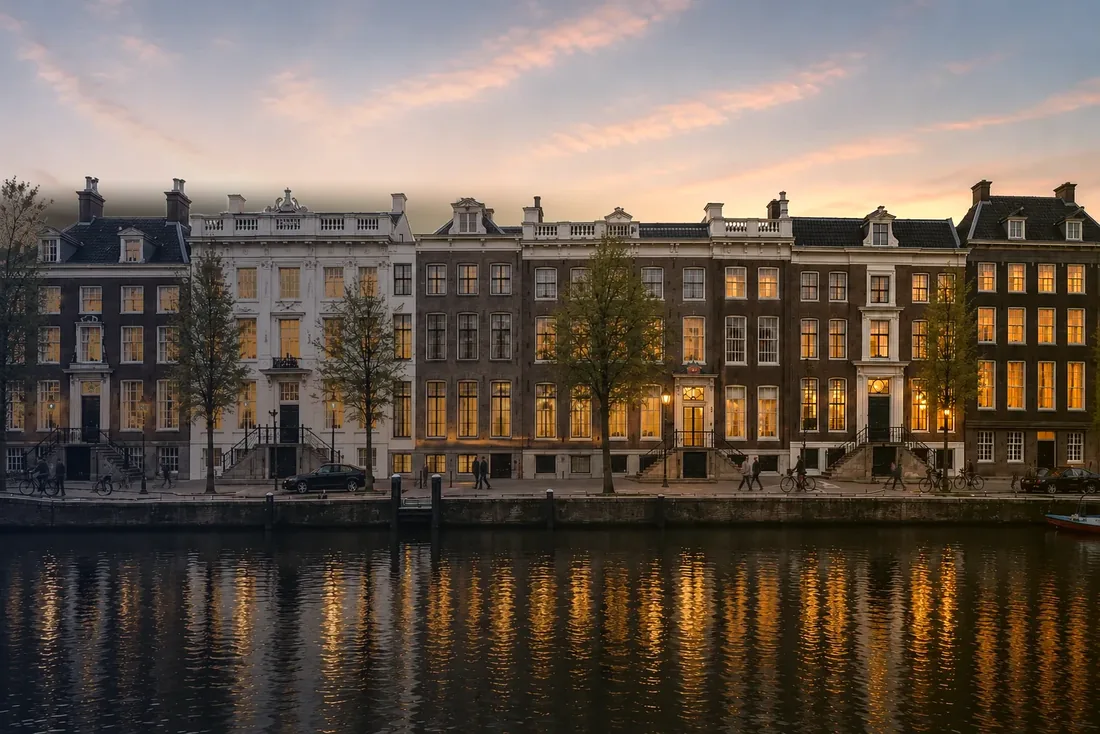
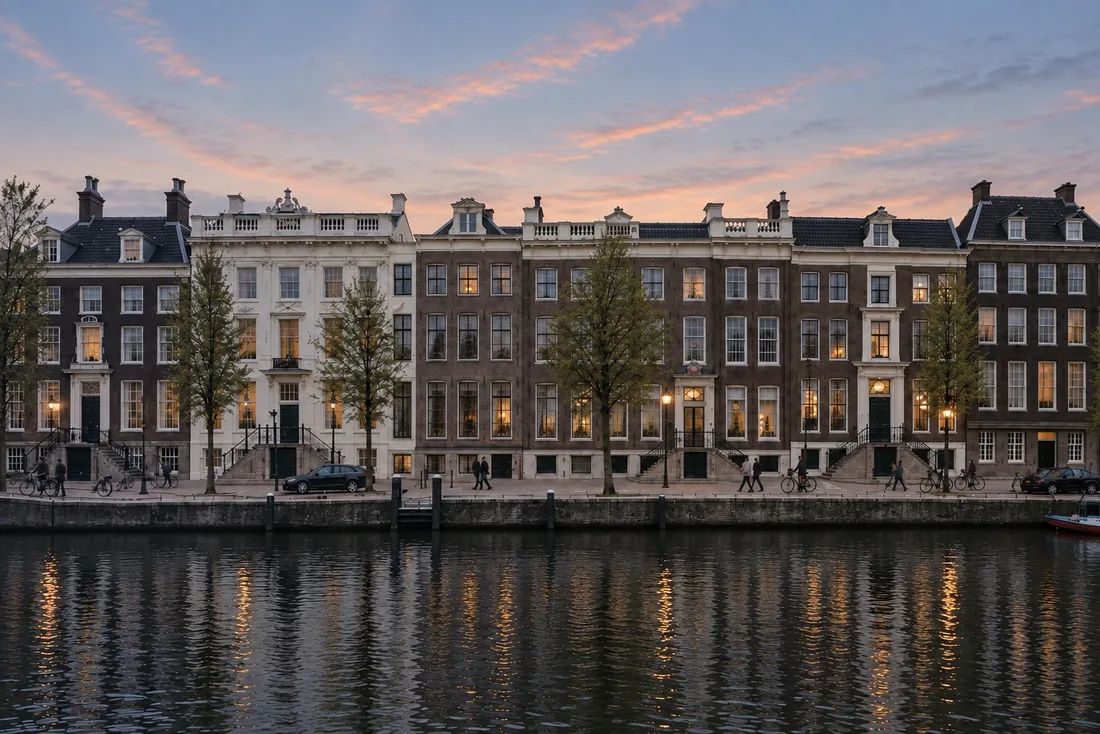
Repositioning image: replace the heavily graded photograph with the clean version (Home and Investment Focus, EN and JA)
Claude-Session: https://claude.ai/code/session_01V6ZX8JZxabEvsyygzDaCkB

diff --git a/ja/investment-focus.html b/ja/investment-focus.html
@@ -41,7 +41,7 @@
      when a strategy is opened (they stay loading="lazy"). -->
 <link rel="preload" as="image" imagesrcset="../assets/imagery/focus-hero-blur.avif" type="image/avif">
 <link rel="preload" as="image" href="../assets/imagery/focus-income-balanced.webp" media="(min-width: 761px)" fetchpriority="high">
-<link rel="preload" as="image" href="../assets/imagery/focus-repositioning-panorama-900.webp" imagesrcset="../assets/imagery/focus-repositioning-panorama-900.webp 900w, ../assets/imagery/focus-repositioning-panorama.webp 1535w" imagesizes="45vw" media="(min-width: 761px)" fetchpriority="high">
+<link rel="preload" as="image" href="../assets/imagery/focus-repositioning-panorama-900.webp?v=2" imagesrcset="../assets/imagery/focus-repositioning-panorama-900.webp?v=2 900w, ../assets/imagery/focus-repositioning-panorama.webp?v=2 1535w" imagesizes="45vw" media="(min-width: 761px)" fetchpriority="high">
 <style>
   /* =====================================================================
      投資方針 — the Japanese composition of the approved English Investment
@@ -419,7 +419,7 @@
           <div class="fx-panel fx-panel--rep">
             <button class="fx-shut" type="button" data-focus="1" aria-label="再生型を見る"></button>
             <span class="fx-photo" aria-hidden="true">
-              <img src="../assets/imagery/focus-repositioning-panorama-900.webp" srcset="../assets/imagery/focus-repositioning-panorama-900.webp 900w, ../assets/imagery/focus-repositioning-panorama.webp 1535w" sizes="(max-width: 760px) 100vw, 45vw" alt="" width="1535" height="1024" loading="lazy" decoding="async">
+              <img src="../assets/imagery/focus-repositioning-panorama-900.webp?v=2" srcset="../assets/imagery/focus-repositioning-panorama-900.webp?v=2 900w, ../assets/imagery/focus-repositioning-panorama.webp?v=2 1535w" sizes="(max-width: 760px) 100vw, 45vw" alt="" width="1535" height="1024" loading="lazy" decoding="async">
             </span>
             <span class="fx-scrim" aria-hidden="true"></span>
             <span class="fx-edge" aria-hidden="true"></span>
@@ -460,7 +460,7 @@
           </div>
           <div class="fx-det-grid">
             <figure class="fx-det-fig">
-              <div class="fx-det-img"><img src="../assets/imagery/focus-repositioning-panorama.webp" srcset="../assets/imagery/focus-repositioning-panorama-900.webp 900w, ../assets/imagery/focus-repositioning-panorama.webp 1535w" sizes="(max-width: 760px) 100vw, 40vw" alt="夕暮れの光に包まれた、アムステルダムの運河沿いの建物" width="1535" height="1024" loading="lazy" decoding="async"></div>
+              <div class="fx-det-img"><img src="../assets/imagery/focus-repositioning-panorama.webp?v=2" srcset="../assets/imagery/focus-repositioning-panorama-900.webp?v=2 900w, ../assets/imagery/focus-repositioning-panorama.webp?v=2 1535w" sizes="(max-width: 760px) 100vw, 40vw" alt="夕暮れの光に包まれた、アムステルダムの運河沿いの建物" width="1535" height="1024" loading="lazy" decoding="async"></div>
               <figcaption class="fx-illus">イメージです。<wbr><span lang="en">Reiwa Capital</span>の物件や取引を<wbr>示すものではありません。</figcaption>
             </figure>
             <div class="fx-det-main">

diff --git a/investment-focus.html b/investment-focus.html
@@ -40,7 +40,7 @@
      when a strategy is opened (they stay loading="lazy"). -->
 <link rel="preload" as="image" imagesrcset="assets/imagery/focus-hero-blur.avif" type="image/avif">
 <link rel="preload" as="image" href="assets/imagery/focus-income-balanced.webp" media="(min-width: 761px)" fetchpriority="high">
-<link rel="preload" as="image" href="assets/imagery/focus-repositioning-panorama-900.webp" imagesrcset="assets/imagery/focus-repositioning-panorama-900.webp 900w, assets/imagery/focus-repositioning-panorama.webp 1535w" imagesizes="45vw" media="(min-width: 761px)" fetchpriority="high">
+<link rel="preload" as="image" href="assets/imagery/focus-repositioning-panorama-900.webp?v=2" imagesrcset="assets/imagery/focus-repositioning-panorama-900.webp?v=2 900w, assets/imagery/focus-repositioning-panorama.webp?v=2 1535w" imagesizes="45vw" media="(min-width: 761px)" fetchpriority="high">
 <style>
   /* =====================================================================
      INVESTMENT FOCUS — hero, then three signature visuals with the
@@ -405,7 +405,7 @@
           <div class="fx-panel fx-panel--rep">
             <button class="fx-shut" type="button" data-focus="1" aria-label="Explore Repositioning"></button>
             <span class="fx-photo" aria-hidden="true">
-              <img src="assets/imagery/focus-repositioning-panorama-900.webp" srcset="assets/imagery/focus-repositioning-panorama-900.webp 900w, assets/imagery/focus-repositioning-panorama.webp 1535w" sizes="(max-width: 760px) 100vw, 45vw" alt="" width="1535" height="1024" loading="lazy" decoding="async">
+              <img src="assets/imagery/focus-repositioning-panorama-900.webp?v=2" srcset="assets/imagery/focus-repositioning-panorama-900.webp?v=2 900w, assets/imagery/focus-repositioning-panorama.webp?v=2 1535w" sizes="(max-width: 760px) 100vw, 45vw" alt="" width="1535" height="1024" loading="lazy" decoding="async">
             </span>
             <span class="fx-scrim" aria-hidden="true"></span>
             <span class="fx-edge" aria-hidden="true"></span>
@@ -446,7 +446,7 @@
           </div>
           <div class="fx-det-grid">
             <figure class="fx-det-fig">
-              <div class="fx-det-img"><img src="assets/imagery/focus-repositioning-panorama.webp" srcset="assets/imagery/focus-repositioning-panorama-900.webp 900w, assets/imagery/focus-repositioning-panorama.webp 1535w" sizes="(max-width: 760px) 100vw, 40vw" alt="Canal houses along an Amsterdam canal in evening light" width="1535" height="1024" loading="lazy" decoding="async"></div>
+              <div class="fx-det-img"><img src="assets/imagery/focus-repositioning-panorama.webp?v=2" srcset="assets/imagery/focus-repositioning-panorama-900.webp?v=2 900w, assets/imagery/focus-repositioning-panorama.webp?v=2 1535w" sizes="(max-width: 760px) 100vw, 40vw" alt="Canal houses along an Amsterdam canal in evening light" width="1535" height="1024" loading="lazy" decoding="async"></div>
               <figcaption class="fx-illus">Illustrative view only. Not a Reiwa Capital asset or transaction.</figcaption>
             </figure>
             <div class="fx-det-main">

diff --git a/ja/index.html b/ja/index.html
@@ -343,7 +343,7 @@
         </span>
       </a>
       <a class="hf-item" href="investment-focus.html#repositioning">
-        <span class="hf-media"><img src="../assets/imagery/focus-repositioning-1100.webp" srcset="../assets/imagery/focus-repositioning-1100.webp 1100w, ../assets/imagery/focus-repositioning-panorama.webp 1535w" sizes="(max-width: 760px) 100vw, (min-width: 1304px) 560px, 46vw" width="1535" height="1024" loading="lazy" decoding="async" alt="夕暮れのアムステルダムの運河沿いに並ぶ建物"></span>
+        <span class="hf-media"><img src="../assets/imagery/focus-repositioning-1100.webp?v=2" srcset="../assets/imagery/focus-repositioning-1100.webp?v=2 1100w, ../assets/imagery/focus-repositioning-panorama.webp?v=2 1535w" sizes="(max-width: 760px) 100vw, (min-width: 1304px) 560px, 46vw" width="1535" height="1024" loading="lazy" decoding="async" alt="夕暮れのアムステルダムの運河沿いに並ぶ建物"></span>
         <span class="hf-cap">
           <h3>再生型</h3>
           <p>的を絞った資本投下と、投資家側からの<span class="jt">継続的な</span><span class="jt">モニタリングにより、</span><wbr>収益または価値を<wbr>実質的に<wbr>高められる資産。</p>

diff --git a/index.html b/index.html
@@ -324,7 +324,7 @@
         </span>
       </a>
       <a class="hf-item" href="investment-focus.html#repositioning">
-        <span class="hf-media"><img src="assets/imagery/focus-repositioning-1100.webp" srcset="assets/imagery/focus-repositioning-1100.webp 1100w, assets/imagery/focus-repositioning-panorama.webp 1535w" sizes="(max-width: 760px) 100vw, (min-width: 1304px) 560px, 46vw" width="1535" height="1024" loading="lazy" decoding="async" alt="Row of canal-side buildings in Amsterdam at dusk"></span>
+        <span class="hf-media"><img src="assets/imagery/focus-repositioning-1100.webp?v=2" srcset="assets/imagery/focus-repositioning-1100.webp?v=2 1100w, assets/imagery/focus-repositioning-panorama.webp?v=2 1535w" sizes="(max-width: 760px) 100vw, (min-width: 1304px) 560px, 46vw" width="1535" height="1024" loading="lazy" decoding="async" alt="Row of canal-side buildings in Amsterdam at dusk"></span>
         <span class="hf-cap">
           <h3>Repositioning</h3>
           <p>Assets where targeted capital and sustained oversight can materially improve income or value.</p>
